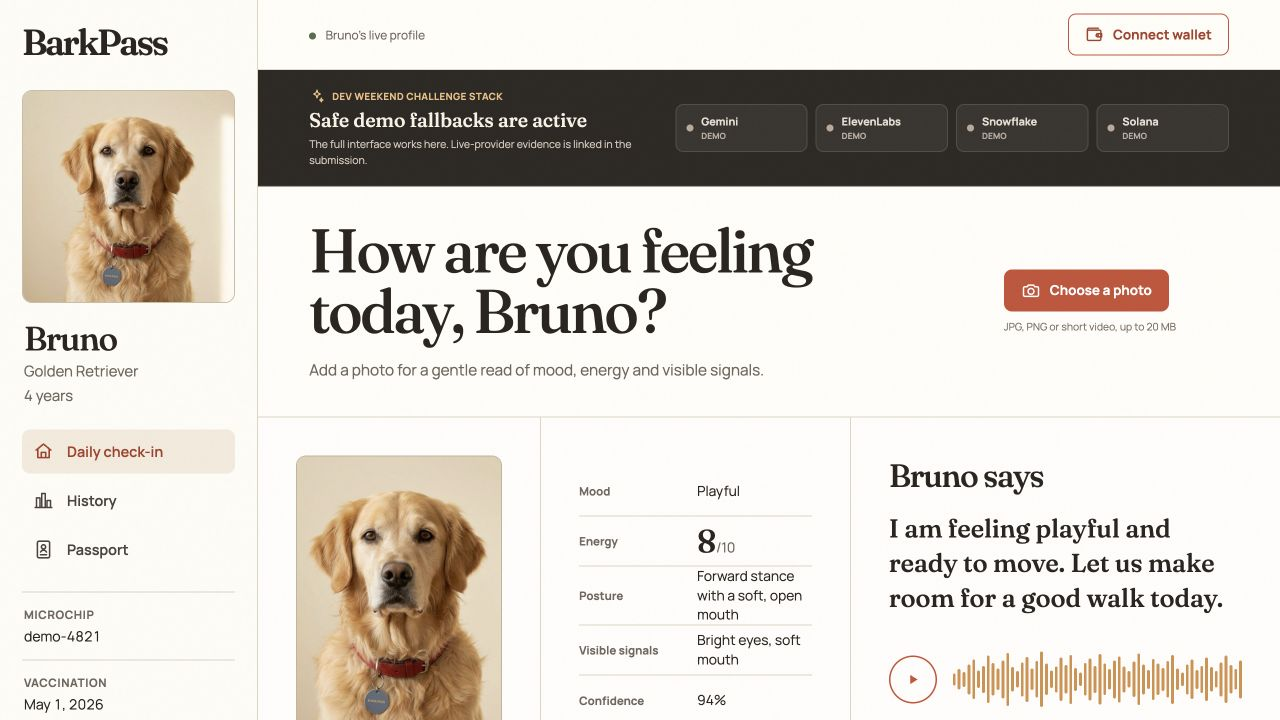
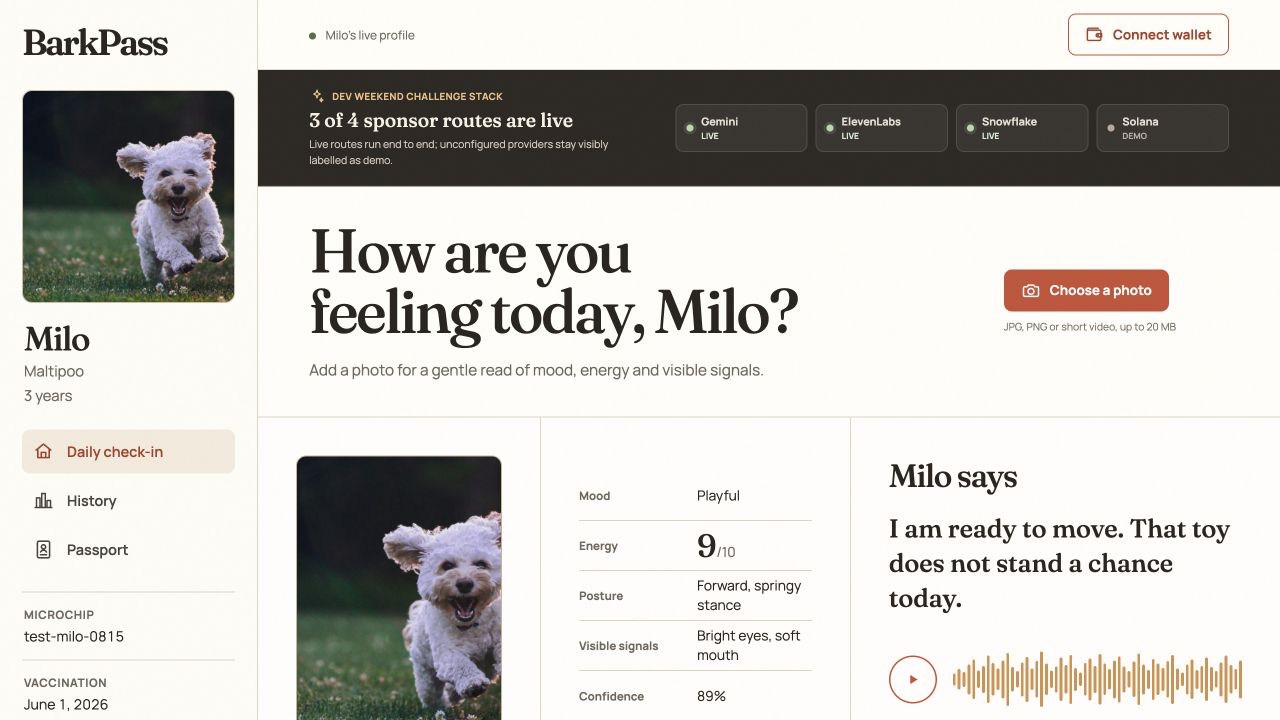
Refresh submission proof from live production

diff --git a/DEV_SUBMISSION.md b/DEV_SUBMISSION.md
@@ -1,6 +1,6 @@
 ---
 title: "Your dog's camera roll is a wellness history. BarkPass makes it speak."
-published: true
+published: false
 tags: devchallenge, weekendchallenge, ai, webdev
 ---
 
@@ -41,7 +41,7 @@ The clean app route begins with onboarding. Add a real dog profile, choose a pho
 
 The Bruno route is only an optional sample story. A history product needs several days before its most interesting screen makes sense, so the sample provides seven check-ins immediately. It is not a separate build or a hidden judging route.
 
-![BarkPass daily check-in with visible mood, energy, posture and voice results](https://raw.githubusercontent.com/himanshu748/barkpass-dog-days/main/submission-assets/02-app-checkin.png)
+![BarkPass personalized daily check-in for Milo with three live provider routes, visible mood, energy, posture and voice results](https://raw.githubusercontent.com/himanshu748/barkpass-dog-days/main/submission-assets/02-app-checkin.png)
 
 ## The product flow
 
@@ -222,7 +222,7 @@ npm test
 npm run build
 ```
 
-All nine contract tests pass. The production Vite build passes. I also verified the first-run flow, the optional seven-day sample, responsive behavior at 390 pixels, public metadata, the finalized devnet mint, a playable ElevenLabs MP3, the five-photo Gemini set and Snowflake's independent aggregate.
+All thirteen contract tests pass. The production Vite build passes. I also verified the first-run flow, sample-to-personal profile isolation, the optional seven-day sample, responsive behavior at 390 pixels, public metadata, the finalized devnet mint, a playable ElevenLabs MP3, the five-photo Gemini set and Snowflake's independent aggregate.
 
 ## Run it yourself
 

diff --git a/README.md b/README.md
@@ -32,7 +32,7 @@ Protected Vercel deployments keep sponsor credentials server-side. Their sensiti
 
 Live Preview verification on August 15, 2026 confirmed Gemini structured image analysis, an ElevenLabs MP3 response, unsigned Solana devnet tip preparation, and a real Snowflake write/query path. All four sponsor integrations now live on the protected `barkpass-dog-days` Preview; the obsolete Ember project was removed after migration. A Luna profile and three dog-scoped check-ins were persisted in `BARKPASS.PUBLIC`; the returned answer reported an average energy of 7.0 and a range of 6 to 8. The browser still keeps profiles and history usable through the explicitly labeled local fallback when a sponsor service is unavailable.
 
-The public deployment intentionally contains no sponsor credentials. It exercises the complete interface through labeled fallbacks without exposing billable provider routes. `BARKPASS_PUBLIC_ORIGIN` lets a protected live-provider deployment mint metadata that remains readable through the public project.
+The public Production deployment now runs Gemini, ElevenLabs and Snowflake through same-origin server functions while keeping their credentials unreadable to the browser. A real-photo Gemini request, a playable ElevenLabs MP3, a Snowflake dog-profile write and a three-row grounded query were re-verified after the Production migration. Solana stays explicitly labelled as demo until the replacement devnet vault is funded; the previously finalized mint remains linked as independently verifiable proof.
 
 The app exposes these endpoints:
 

diff --git a/submission-assets/VERIFICATION.md b/submission-assets/VERIFICATION.md
@@ -2,6 +2,15 @@
 
 Verified against the Vercel Preview on August 15, 2026.
 
+## Production re-verification
+
+After promoting the sponsor routes to the public deployment, BarkPass returned:
+
+- Gemini: HTTP 200 for a licensed real dog photo; `Playful`, energy `10/10`, structured posture notes and `provider: gemini`
+- ElevenLabs: HTTP 200, a 52,288-byte MPEG voice note and `x-barkpass-provider: ElevenLabs`
+- Snowflake: a live Maple profile write, three dog-scoped check-in writes and a grounded query with average energy `6.7` and range `5` to `8`
+- Public status: Gemini, ElevenLabs and Snowflake live; Solana visibly labelled demo while the replacement devnet vault awaits faucet verification
+
 ## Five-photo Gemini acceptance set
 
 | Case | Gemini mood | Energy | Confidence | API latency |
@@ -53,7 +62,7 @@ The new 120-day student trial is active. Setup and proof used:
 
 ## Build checks
 
-- API contract tests: 9/9 passed
+- API contract tests: 13/13 passed
 - Vite production build: passed
 - Public `/app` response: HTTP 200 at https://barkpass-dog-days.vercel.app/app
 - One-click `/app?demo=1` path: seven visible check-ins, average 7.0, range 4 to 9, and verified Solana example link
